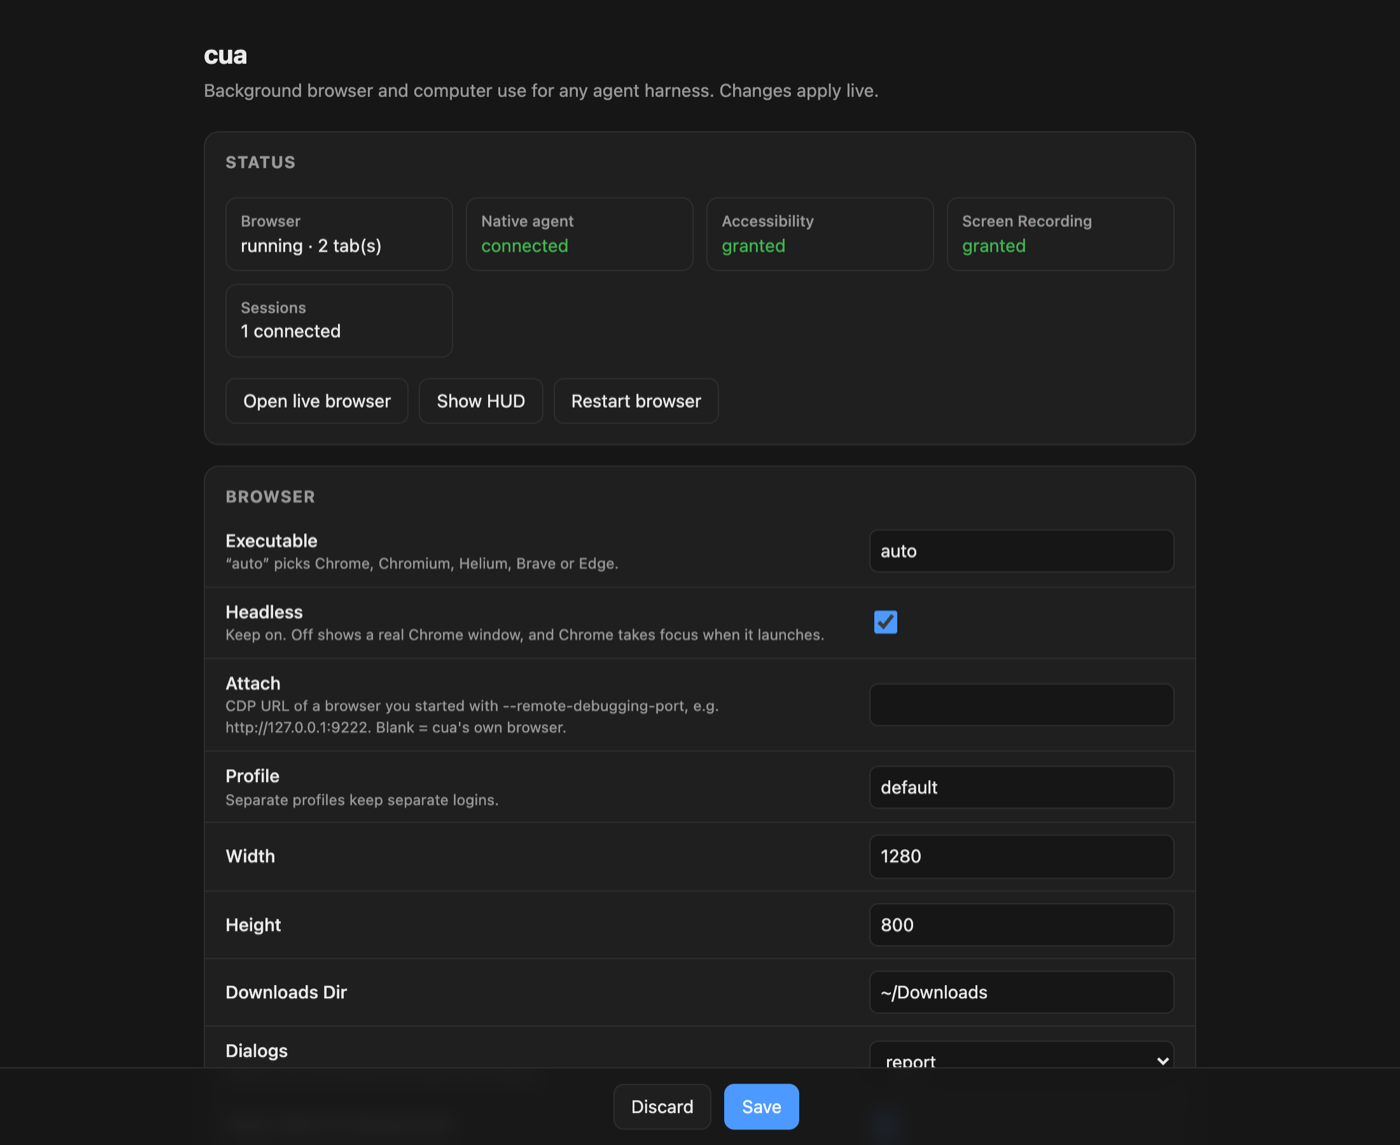
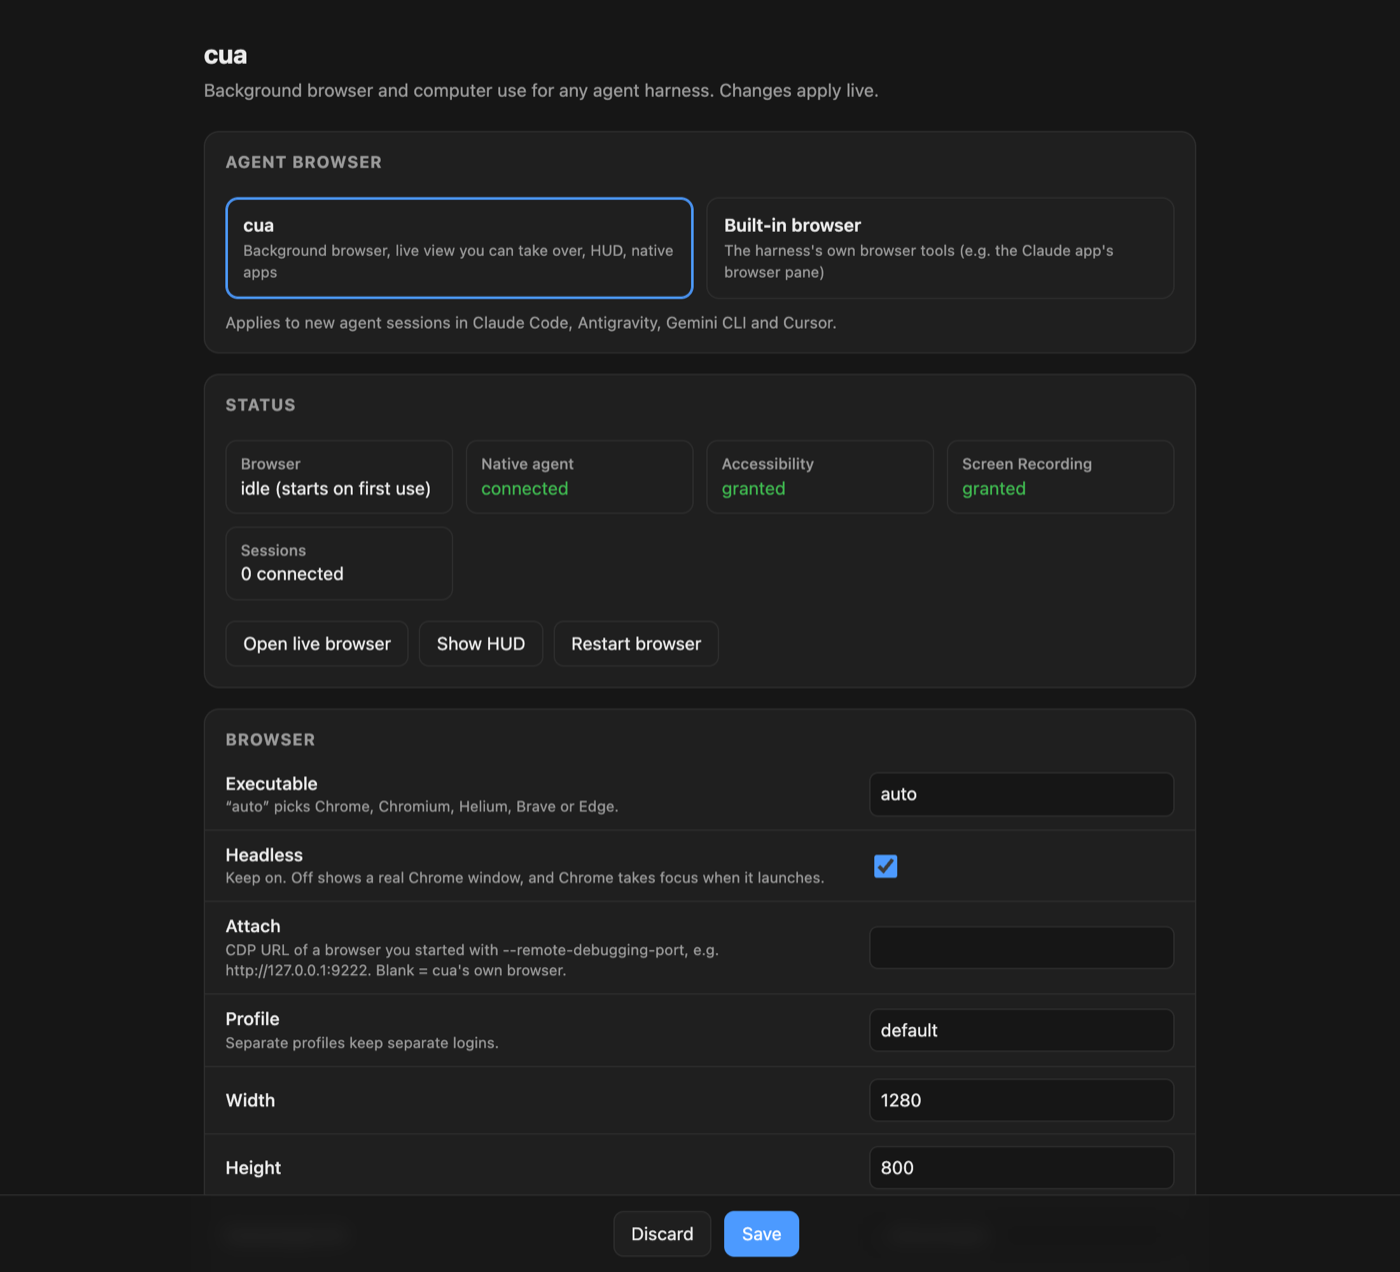
add toggle between cua and built-in browser

diff --git a/server/web/settings.html b/server/web/settings.html
@@ -29,12 +29,27 @@
   .savebar { position: fixed; left: 0; right: 0; bottom: 0; padding: 12px; display: flex; justify-content: center; gap: 10px;
     background: color-mix(in srgb, var(--bg) 85%, transparent); backdrop-filter: blur(8px); border-top: 1px solid var(--line); }
   #toast { color: var(--muted); align-self: center; }
-  @media (max-width: 560px) { .row { grid-template-columns: 1fr; } }
+  .seg { display: grid; grid-template-columns: 1fr 1fr; gap: 10px; padding: 12px 16px 4px; }
+  .seg button { text-align: left; padding: 11px 13px; border-radius: 10px; }
+  .seg button b { display: block; font-weight: 600; }
+  .seg button small { display: block; color: var(--muted); margin-top: 2px; }
+  .seg button.on { border-color: var(--accent); box-shadow: inset 0 0 0 1px var(--accent); }
+  .note { color: var(--muted); font-size: 12.5px; margin: 6px 16px 14px; }
+  @media (max-width: 560px) { .row, .seg { grid-template-columns: 1fr; } }
 </style>
 
 <main>
   <h1>cua</h1>
   <p class="sub">Background browser and computer use for any agent harness. Changes apply live.</p>
+
+  <section>
+    <h2>Agent browser</h2>
+    <div class="seg" id="mode">
+      <button data-mode="cua"><b>cua</b><small>Background browser, live view you can take over, HUD, native apps</small></button>
+      <button data-mode="builtin"><b>Built-in browser</b><small>The harness's own browser tools (e.g. the Claude app's browser pane)</small></button>
+    </div>
+    <p class="note" id="modeNote">Applies to new agent sessions in Claude Code, Antigravity, Gemini CLI and Cursor.</p>
+  </section>
 
   <section>
     <h2>Status</h2>
@@ -154,6 +169,17 @@ document.getElementById("reset").onclick = build;
 document.getElementById("openBrowser").onclick = () => open("/?t=" + T, "_blank");
 document.getElementById("showHud").onclick = () => api("/api/hud/show", {});
 document.getElementById("restart").onclick = async () => { await api("/api/browser/restart", {}); status(); };
+
+async function showMode(m) {
+  for (const b of document.querySelectorAll("#mode button")) b.classList.toggle("on", b.dataset.mode === m);
+}
+for (const b of document.querySelectorAll("#mode button")) b.onclick = async () => {
+  const r = await api("/api/mode", { mode: b.dataset.mode });
+  if (r.error) { document.getElementById("modeNote").textContent = r.error; return; }
+  showMode(r.mode);
+  document.getElementById("modeNote").textContent = (r.report.join(" · ") || "No harness changes needed") + ". New agent sessions pick this up.";
+};
+api("/api/mode").then((r) => showMode(r.mode));
 
 load(); status(); setInterval(status, 4000);
 </script>

diff --git a/README.md b/README.md
@@ -34,6 +34,7 @@ npm packages.
 - [Using it](#using-it)
 - [API at a glance](#api-at-a-glance)
 - [In the Claude app](#in-the-claude-app)
+- [Switching to the built-in browser](#switching-to-the-built-in-browser)
 - [The HUD](#the-hud)
 - [Configuration](#configuration)
 - [CLI](#cli)
@@ -88,7 +89,7 @@ npm packages.
 
 <p align="center">
   <img src="docs/settings.png" alt="The settings page: live status and every option, grouped by section" width="760">
-  <br><i>Settings: live status (browser, native agent, permissions, sessions) and every option.</i>
+  <br><i>Settings: the cua ↔ built-in browser switch, live status, and every option.</i>
 </p>
 
 ## Install
@@ -217,6 +218,31 @@ Claude:
 
 `cua ui` opens the same view in your default browser.
 
+## Switching to the built-in browser
+
+You can flip every harness between cua and its own built-in browser (such as the
+Claude app's browser pane tools) in one step:
+
+```sh
+cua toggle                 # flip
+cua use builtin            # or pick one explicitly
+cua use cua
+cua use                    # show the current choice
+```
+
+The settings page has the same switch at the top. Switching changes only the entries cua
+manages:
+
+| Harness | cua selected | Built-in browser selected |
+| --- | --- | --- |
+| Claude Code / Claude app | Built-in page-driving browser tools are denied in `~/.claude/settings.json` (`preview_*` stays allowed so the live view can open) | `mcp__cua` is denied instead, and the cua skill is parked |
+| Antigravity, Gemini CLI, Cursor | The `cua` server entry is present | The entry is parked in `~/.config/cua/parked-servers.json` and restored when you switch back |
+
+The rest of each config is left alone. Unreadable configs are skipped rather than
+overwritten, and symlinked configs are written through. Re-running the installer
+re-applies your current choice. Uninstalling removes every rule cua added. The change
+applies to new agent sessions, so restart any harness window that's already open.
+
 ## The HUD
 
 `CuaPreview.app` is a small borderless card that streams what the agent is driving: the
@@ -261,6 +287,7 @@ logs).
 | `cua ui` | Open the live browser view |
 | `cua settings` | Open the settings page |
 | `cua doctor` | Check Node, browser, apps, harness registration and permissions |
+| `cua use [cua\|builtin]` / `cua toggle` | Choose which browser agents use |
 
 ## How it works
 
@@ -320,6 +347,7 @@ flowchart LR
 | A site blocks the headless browser or keeps showing CAPTCHAs | Browsers started with a debugging port are detectable as automated, and cua doesn't hide that. Finish the check yourself in the live view, or set `browser.attach` to a browser you started with `--remote-debugging-port`. |
 | Live view is blank | Run `cua status`. The browser starts on the first `cua.open()`, and `cua restart` resets everything. |
 | The agent doesn't have the tool | Start a new conversation after installing, because harnesses load MCP servers at session start. |
+| You want the harness's own browser for a while | `cua toggle`, then again to come back. |
 | Anything else | The daemon log is at `~/Library/Application Support/cua/run/daemon.log`. |
 
 Turning `browser.headless` off shows a real Chrome window, but Chrome takes focus when it

diff --git a/skill/SKILL.md b/skill/SKILL.md
@@ -63,9 +63,10 @@ await notes.read();
 - `tab.evaluate` sees the live DOM, including values typed into fields.
 - Tabs you open close when the session ends. `tab.keep()` for anything the user
   should find afterwards.
-- Headless sites that block automation: set `browser.headless` to false in
-  settings (`cua.ui()` → Settings) or attach to the user's own browser with
-  `browser.attach`.
+- If a site blocks the browser or shows a CAPTCHA or other human check, don't try
+  to get around it. Tell the user and let them finish it in the live view, or leave
+  that site to them. Don't turn `browser.headless` off: Chrome takes focus when it
+  launches.
 
 ## Confirm before
 
